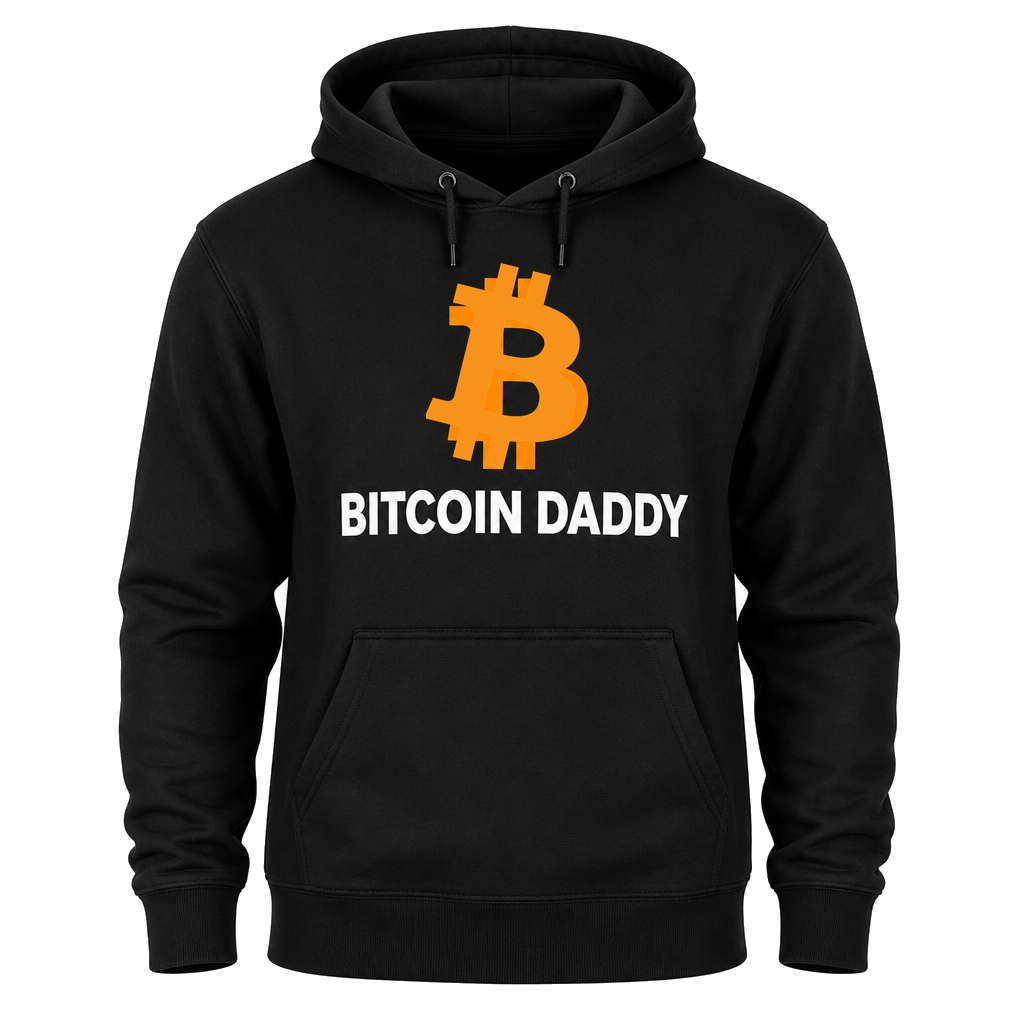
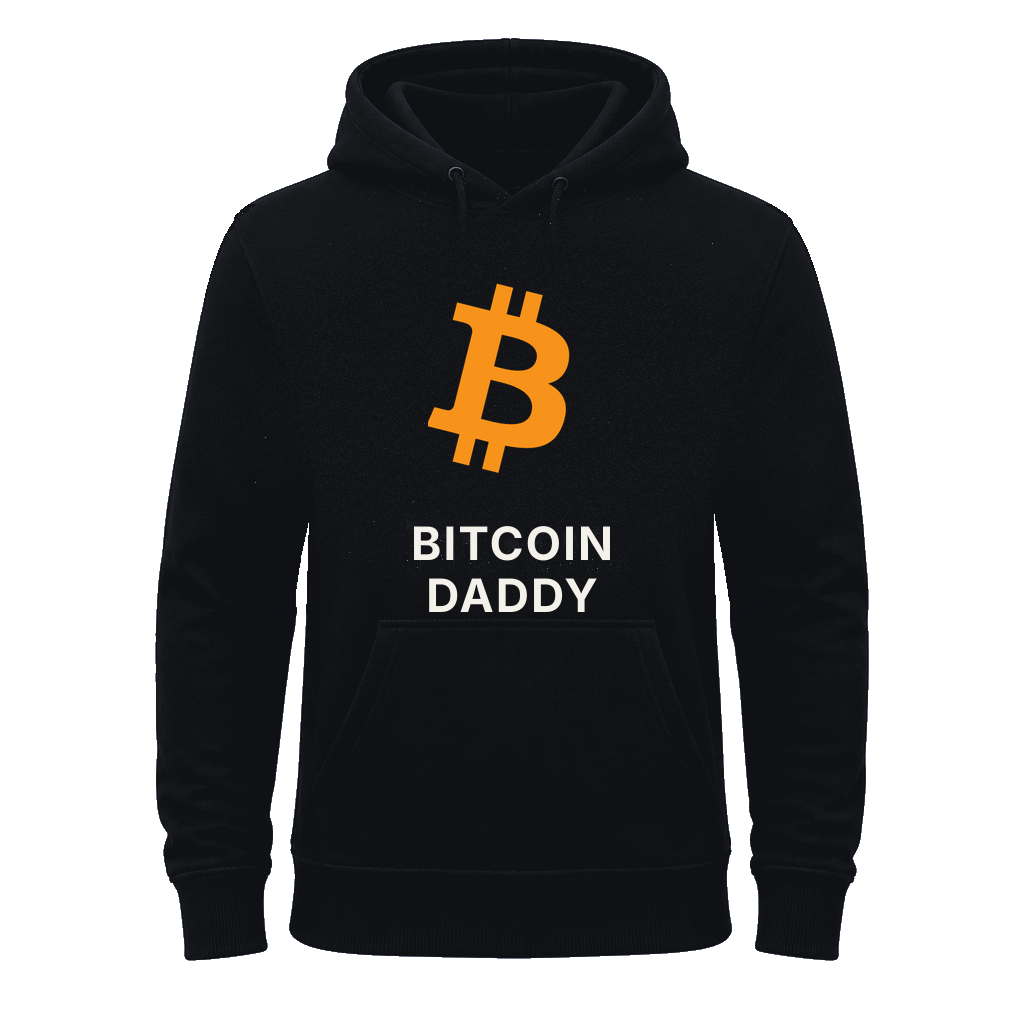
Retire floating-₿ mugs and restamp Daddy hoodie. (#28)
Site-wide print pass: Drop-07 white mugs had a ₿ hanging off the cup, the Mummy hat had a second mark off the brim, and a few mugs/posters were ghosted. Those listings are retired until a clean unique studio shot exists. Bitcoin Daddy hoodie is restamped from the hoodie template so the line and official ₿ stay readable.

diff --git a/scripts/qa-storefront.ts b/scripts/qa-storefront.ts
@@ -7,7 +7,7 @@ import { readFileSync, readdirSync, statSync } from "node:fs";
 import path from "node:path";
 import { SHOP_FILTERS, SHOP_MORE_FILTERS, MEGA_NAV } from "../lib/nav";
 import { gbpAmountsMatch, gbpToPence, penceMatchesGbp } from "../lib/payments/amount";
-import { liveProducts, productsIn, takesColourways } from "../lib/products";
+import { liveProducts, productsIn, RETIRED_SLUGS, takesColourways } from "../lib/products";
 import { basketTotals } from "../lib/shipping";
 
 const live = liveProducts();
@@ -68,6 +68,25 @@ assert.ok(row.shipGbp >= us.shipGbp, "rest-of-world should not be cheaper than U
 assert.equal(gbpToPence(totals.totalGbp), Math.round(totals.totalGbp * 100));
 assert.equal(penceMatchesGbp(32, 32), false, "32 pence must not confirm a £32 order (100×)");
 assert.equal(gbpAmountsMatch(32, 0.32), false);
+
+const PRINT_CLARITY_RETIRED = [
+  "so-back-mug",
+  "so-over-mug",
+  "pow-tweet-mug",
+  "fiat-exp-mug",
+  "quantum-mug",
+  "no-laser-mug",
+  "orange-pill-mug",
+  "no-forecast-mug",
+  "bitcoin-mummy-hat",
+  "bitcoin-mummy-mug",
+  "bitcoin-daddy-mug",
+  "hodl-mug",
+  "21m-poster",
+];
+for (const slug of PRINT_CLARITY_RETIRED) {
+  assert.ok(RETIRED_SLUGS.has(slug), `${slug} must stay retired — ₿ off the object or a ghosted mark`);
+}
 
 const sweatRender = readFileSync(path.join(process.cwd(), "scripts/render-sweat-mockups.mjs"), "utf8");
 assert.match(sweatRender, /fabricPool/, "sweat mockups must clone fabric, not a flat chest box");

diff --git a/lib/products.ts b/lib/products.ts
@@ -1227,6 +1227,19 @@ export const RETIRED_SLUGS = new Set([
   "block-one-tee",
   "hashrate-tee",
   "difficulty-adjusts-tee",
+  "so-back-mug",
+  "so-over-mug",
+  "pow-tweet-mug",
+  "fiat-exp-mug",
+  "quantum-mug",
+  "no-laser-mug",
+  "orange-pill-mug",
+  "no-forecast-mug",
+  "bitcoin-mummy-hat",
+  "bitcoin-mummy-mug",
+  "bitcoin-daddy-mug",
+  "hodl-mug",
+  "21m-poster",
 ]);
 
 export function liveProducts() {

diff --git a/lib/drop-09-parents.ts b/lib/drop-09-parents.ts
@@ -73,6 +73,7 @@ export const drop09Parents: Product[] = [
     description: "Heavier cloth. Same joke. Orange ₿.",
     details: HOOD,
     image: "/products/bitcoin-daddy-hoodie.png",
+    imagesByColor: { ink: "/products/bitcoin-daddy-hoodie.png" },
     sizes: APPAREL,
   },
   {

diff --git a/.cursor/skills/stackhouse-design/SKILL.md b/.cursor/skills/stackhouse-design/SKILL.md
@@ -78,7 +78,7 @@ FOMO21 copy and clones, including: First Rule Of Bitcoin / Do Not Sell, B Sovere
 - If you do not have a unique matching photo, **do not list the SKU**. Set `retired: true` or omit it. Never borrow a neighbour’s image.
 - If the only photo is a lifestyle shot (dark wall, props, wooden table), **do not list it** until a white studio mockup exists. The candlestick hoodie once sat on charcoal stone while every neighbour was a ghost mannequin — that is a catalog error.
 - `npm run qa:catalog` (also runs before `next build`) fails the build if two live designs share a photo, a mug/tote/pint uses the wrong object, a live photo is not a white studio mockup, a live photo still has an **upright** Bitcoin B, a swatch recolour does not match the garment colour (`color-match`), or the studio backdrop is grainy (`grain`).
-- **HARD RULE — writing and marks must be readable.** The buyer decides from the photo. Every live shot must show the title line in clean, complete letters and a coherent official ₿ — not smashed type, missing strokes, a second ghost slogan, or a sticker rectangle behind the print. If you cannot read it at card size, retire the SKU or re-stamp Inter + `public/brand/bitcoin-b.svg`. Never ship a garbled “I AM HODLING”. Hoodie/pullover restamps: `node scripts/render-sweat-mockups.mjs` (clone fabric, erase the old chest line, then stamp). Do not paint a flat colour box over the chest.
+- **HARD RULE — writing and marks must be readable.** The buyer decides from the photo. Every live shot must show the title line in clean, complete letters and a coherent official ₿ **on the object** — not smashed type, missing strokes, a second ghost slogan, a sticker rectangle, or a ₿ hanging off a mug/hat into the white backdrop. If you cannot read it at card size, or the mark is off the product, **retire the SKU**. Never ship a garbled “I AM HODLING”. Hoodie/pullover restamps: `node scripts/render-sweat-mockups.mjs` (clone fabric, erase the old chest line, then stamp). Do not paint a flat colour box over the chest. Do not composite a new ₿ onto an existing white-mug photo — that leaves a floating mark or a sticker box. Wait for a new unique studio shot.
 
 ## Agents (run in this order, do not skip)
 

diff --git a/docs/SYNC.md b/docs/SYNC.md
@@ -22,7 +22,7 @@ Open [Genesis 2009](http://127.0.0.1:3001/product/genesis-2009-tee) and tap **Bo
 
 On the shop page, **More → Mummy & Daddy** must show the parent pieces, not “Nothing matches.” Drinkware must include the log-chart mug. Checkout total must match items + the shipping line. Checkout still says **demo** until your keys are in. `/fulfillment` should send you to Shipping — that page must not talk about booths.
 
-Open [HODL Pullover](http://127.0.0.1:3001/product/hodl-pullover). You must be able to read **I AM HODLING** and see a clean orange ₿ — not a black box or broken letters. Then tap Bone: the shirt goes cream and the writing stays readable.
+Open [HODL Pullover](http://127.0.0.1:3001/product/hodl-pullover). You must be able to read **I AM HODLING** and see a clean orange ₿ — not a black box or broken letters. Then tap Bone: the shirt goes cream and the writing stays readable. Open [Bitcoin Daddy Hoodie](http://127.0.0.1:3001/product/bitcoin-daddy-hoodie) — **BITCOIN DADDY** must be readable with a clean ₿ on the chest. Drinkware must not show a ₿ floating off a white mug (those listings are retired).
 
 If Drinkware still looks like only mugs and tumblers, the old process is still running. Control+C, then the block again. Direct pages: [Whiskey glasses](http://127.0.0.1:3001/collection/whiskey-glasses) and [Shot glasses](http://127.0.0.1:3001/collection/shot-glasses).
 
